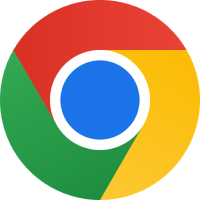
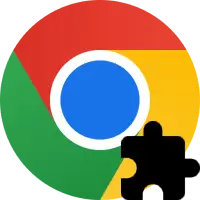
06-03-2025.1

diff --git a/index.html b/index.html
@@ -17,11 +17,11 @@
                 I have an average knowledge of HTML & CSS and I want to learn a lot more...</p>
         </div>
 
-        <section class="item" onclick="openBrowserWindow('Projects')">            
+        <section class="item" onclick="openBrowserWindow('projects')">            
             <img src="/src/folder-projects.webp" alt="projectos">
-            <p>Projectos</p>
+            <p>Projects</p>
         </section>
-        <section class="item" onclick="openBrowserWindow('Mods')">            
+        <section class="item" onclick="openBrowserWindow('mods')">            
             <img src="/src/folder-mods.webp" alt="mods">
             <p>Mods</p>
         </section>
@@ -65,15 +65,15 @@
                     updateClockAndDate();
                 </script>
         </section>
-        <section class="item" onclick="openBrowserWindow('src/newtab.html')">
+        <section class="item" onclick="openBrowserWindow('chrome')">
             <img src="/src/chrome.webp" alt="chrome">
-            <p>Chrome</p>
+            <p>Extensions</p>
         </section>
         <section class="item" onclick="openBrowserWindow('GitHub')">            
             <img src="/src/github.webp" alt="github">
             <p>Github</p>
         </section>
-        <section class="item" onclick="openBrowserWindow('Figma')">            
+        <section class="item" onclick="openBrowserWindow('figma')">            
             <img src="/src/figma.webp" alt="figma">
             <p>Figma</p>
         </section>
@@ -81,11 +81,11 @@
             <img src="/src/vs.webp" alt="vs">
             <p>Visual Studio</p>
         </section>
-        <section class="item" onclick="openBrowserWindow('Spotify')">            
+        <section class="item" onclick="openBrowserWindow('spotify')">            
             <img src="/src/spotify.webp" alt="spotify">
             <p>Spotify</p>
         </section>
-        <section class="item" onclick="openBrowserWindow('Estudios')">            
+        <section class="item" onclick="openBrowserWindow('estudios')">            
             <img src="/src/folder-estudios.webp" alt="estudios">
             <p>Estudios</p>
         </section>

diff --git a/apps/extensiones.html b/apps/extensiones.html
@@ -1,0 +1,48 @@
+<!DOCTYPE html>
+<html lang="en">
+<head>
+    <meta charset="UTF-8">
+    <meta name="viewport" content="width=device-width, initial-scale=1.0">
+    <title>Agustin Benitez - Extensions</title>
+    <link rel="stylesheet" href="../css/style.css">
+</head>
+<body>
+    <header>
+        <nav>
+            <div class="logo">
+                <h1>Agustin Benitez</h1>
+            </div>
+            <ul class="nav-links">
+                <li><a href="../index.html">Home</a></li>
+                <li><a href="extensiones.html" class="active">Extensions</a></li>
+                <li><a href="../contact.html">Contact</a></li>
+            </ul>
+        </nav>
+    </header>
+
+    <main>
+        <section class="extensions-grid">
+            <h2>My Browser Extensions</h2>
+            <div class="extension-cards">
+                <div class="extension-card">
+                    <img src="../images/extension1.png" alt="Extension 1">
+                    <h3>Extension Name 1</h3>
+                    <p>Description of the first extension and its functionality.</p>
+                    <a href="#" class="download-btn">Download</a>
+                </div>
+                <div class="extension-card">
+                    <img src="../images/extension2.png" alt="Extension 2">
+                    <h3>Extension Name 2</h3>
+                    <p>Description of the second extension and its functionality.</p>
+                    <a href="#" class="download-btn">Download</a>
+                </div>
+                <!-- Add more extension cards as needed -->
+            </div>
+        </section>
+    </main>
+
+    <footer>
+        <p>&copy; 2024 Agustin Benitez. All rights reserved.</p>
+    </footer>
+</body>
+</html>

diff --git a/script/apps.js b/script/apps.js
@@ -160,13 +160,13 @@ class Application {
 
 // Create application instances
 const apps = {
-    chrome: new Application('Chrome', '/src/chrome.webp', 'src/newtab.html'),
-    github: new Application('GitHub', '/src/github.webp', 'https://github.com/AgustinBeniteez'),
-    spotify: new Application('Spotify', '/src/spotify.webp', 'https://spotify.com/user/ux4hgc54mgb76frskf7hjxz96?si=124c6432e4ca4ca1'),
-    figma: new Application('Figma', '/src/figma.webp', 'https://figma.com'),
-    estudios: new Application('Estudios', '/src/folder-estudios.webp', 'src/estudios.html'),
-    projects: new Application('Projects', '/src/folder-projects.webp'),
-    mods: new Application('Mods', '/src/folder-mods.webp', 'src/mods.html')
+    chrome: new Application('Chrome', '/src/chrome.webp', 'apps/extensiones.html'),
+    github: new Application('GitHub', '/src/github.webp', 'apps/github.html'),
+    spotify: new Application('Spotify', '/src/spotify.webp', 'apps/spotify.html'),
+    figma: new Application('Figma', '/src/figma.webp', 'apps/figma.html'),
+    estudios: new Application('Estudios', '/src/folder-estudios.webp', 'apps/estudios.html'),
+    projects: new Application('Projects', '/src/folder-projects.webp ', 'apps/projects.html'),
+    mods: new Application('Mods', '/src/folder-mods.webp', 'apps/mods.html')
 };
 
 // Function to open browser window

diff --git a/apps/projects.html b/apps/projects.html
@@ -1,0 +1,15 @@
+<!DOCTYPE html>
+<html lang="en">
+<head>
+    <meta charset="UTF-8">
+    <meta name="viewport" content="width=device-width, initial-scale=1.0">
+    <link rel="stylesheet" href="../style/estructura.css">
+    <title>Projects</title>
+</head>
+<body>
+    <div class="browser-content">
+        <h1>Projects</h1>
+        <p>Coming soon...</p>
+    </div>
+</body>
+</html>

diff --git a/apps/spotify.html b/apps/spotify.html
@@ -1,0 +1,15 @@
+<!DOCTYPE html>
+<html lang="en">
+<head>
+    <meta charset="UTF-8">
+    <meta name="viewport" content="width=device-width, initial-scale=1.0">
+    <link rel="stylesheet" href="../style/estructura.css">
+    <title>Spotify</title>
+</head>
+<body>
+    <div class="browser-content">
+        <h1>Spotify</h1>
+        <p>Coming soon...</p>
+    </div>
+</body>
+</html>

diff --git a/apps/figma.html b/apps/figma.html
@@ -1,0 +1,15 @@
+<!DOCTYPE html>
+<html lang="en">
+<head>
+    <meta charset="UTF-8">
+    <meta name="viewport" content="width=device-width, initial-scale=1.0">
+    <link rel="stylesheet" href="../style/estructura.css">
+    <title>Figma</title>
+</head>
+<body>
+    <div class="browser-content">
+        <h1>Figma</h1>
+        <p>Coming soon...</p>
+    </div>
+</body>
+</html>
